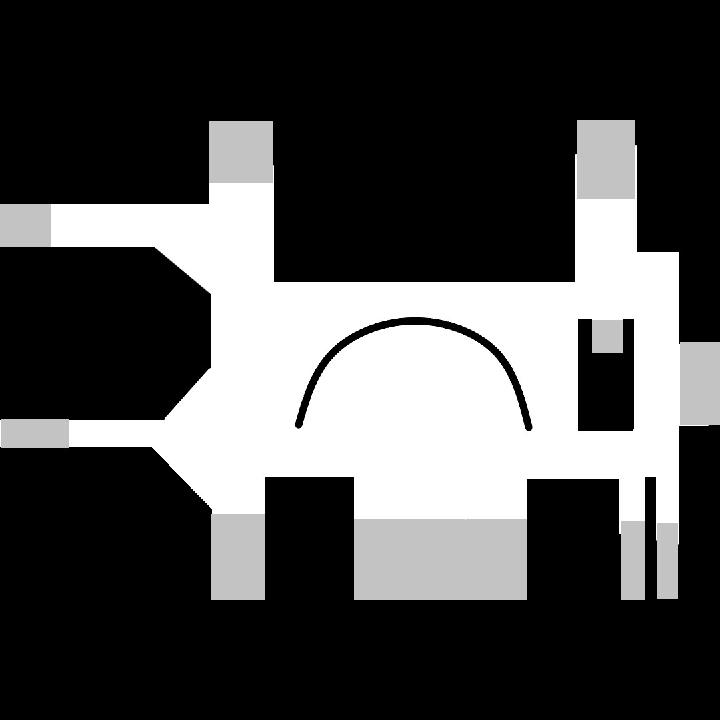
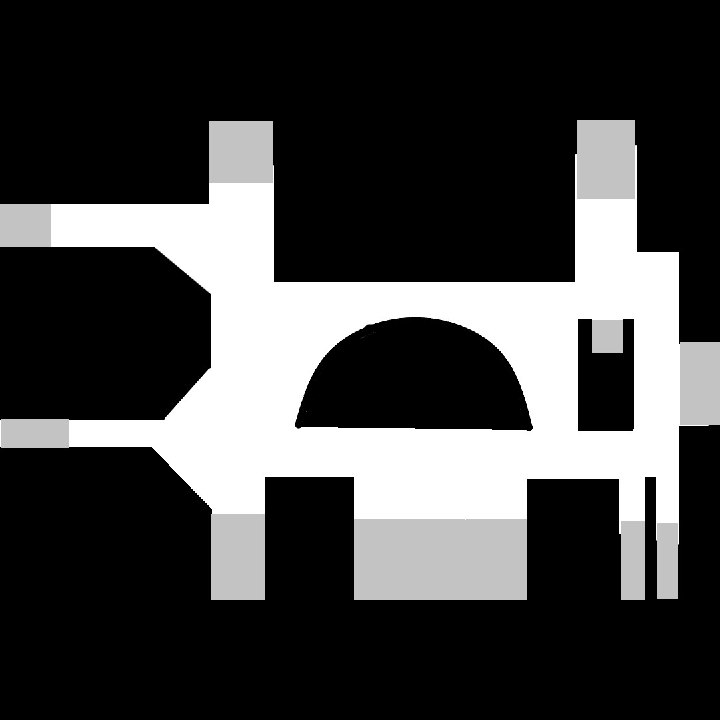
A star toute version fonctionnelle

Changed region(s): [[0.4278, 0.4278, 0.7333, 0.6111]]

diff --git a/TIPE/grille.py b/TIPE/grille.py
@@ -1,4 +1,4 @@
-
+from math import *
 class Case():
 
     def __init__(self, parent=None, position=None):
@@ -14,7 +14,7 @@ class Case():
 
 
 def astar(labi, debut, fin,pointfait,pointot):
-
+    w=2
 
     # créer début fin
     depart = Case(None, debut)
@@ -87,14 +87,33 @@ def astar(labi, debut, fin,pointfait,pointot):
             # calcul h ,f ,g
             i.g = caseactuelle.g + 1
             i.h = ((i.position[0] - arrivee.position[0]) ** 2) + ((i.position[1] - arrivee.position[1]) ** 2)
-            i.f =  i.g + i.h
-
-
+            if i.g<(2*w-1)*i.h:
+                i.f=i.g+i.h                       # W* pwXU
+            else:
+                i.f=(i.g+i.h)/w
+            '''
+            (1/2*w)*(i.g+(2*w-1)*i.h+sqrt((i.g-i.h)*2+4*w*i.g*i.h)) W* XDP
+            (1/2*w)*(i.g+i.h+sqrt((i.g+i.h)**2 +4*w*(w-1)*i.h**2)) W* XUP
+            
+            if i.h>i.g:
+                i.f=i.g+i.h                       # W* pwXD
+            else:
+                i.f=(i.g+2*(w-1)*i.h)/w
+                
+            if i.g<(2*w-1)*i.h:
+                i.f=i.g+i.h                       # W* pwXU
+            else:
+                i.f=(i.g+i.h)/w
+                
+            
+            
+            
+            '''
             for open_node in open_list:
                 if i == open_node and i.g > open_node.g:
                     continue
-
-            open_list.append(i)
+            if i not in open_list:
+                open_list.append(i)
 
 
 

diff --git a/TIPE/main.py b/TIPE/main.py
@@ -198,11 +198,11 @@ while running:
         for i in range(len(obstacle)):                                                       #affichage obstacle
             pg.draw.rect(ecran, (0, 0, 0),
                          (obstacle[i][0] * taillecarre, obstacle[i][1] * taillecarre, taillecarre, taillecarre))
-
+        """
         for i in range (len(path)):                                                                   #affichage du chemin
             for j in range(len(path[i])):
                 pg.draw.circle(ecran, (255, 0, 255), (path[i][j][0] * taillecarre, path[i][j][1] * taillecarre), 2)
-        """
+
         actif=[]
         for i in range(len(Point)):
             if Point[i].actif ==True:
